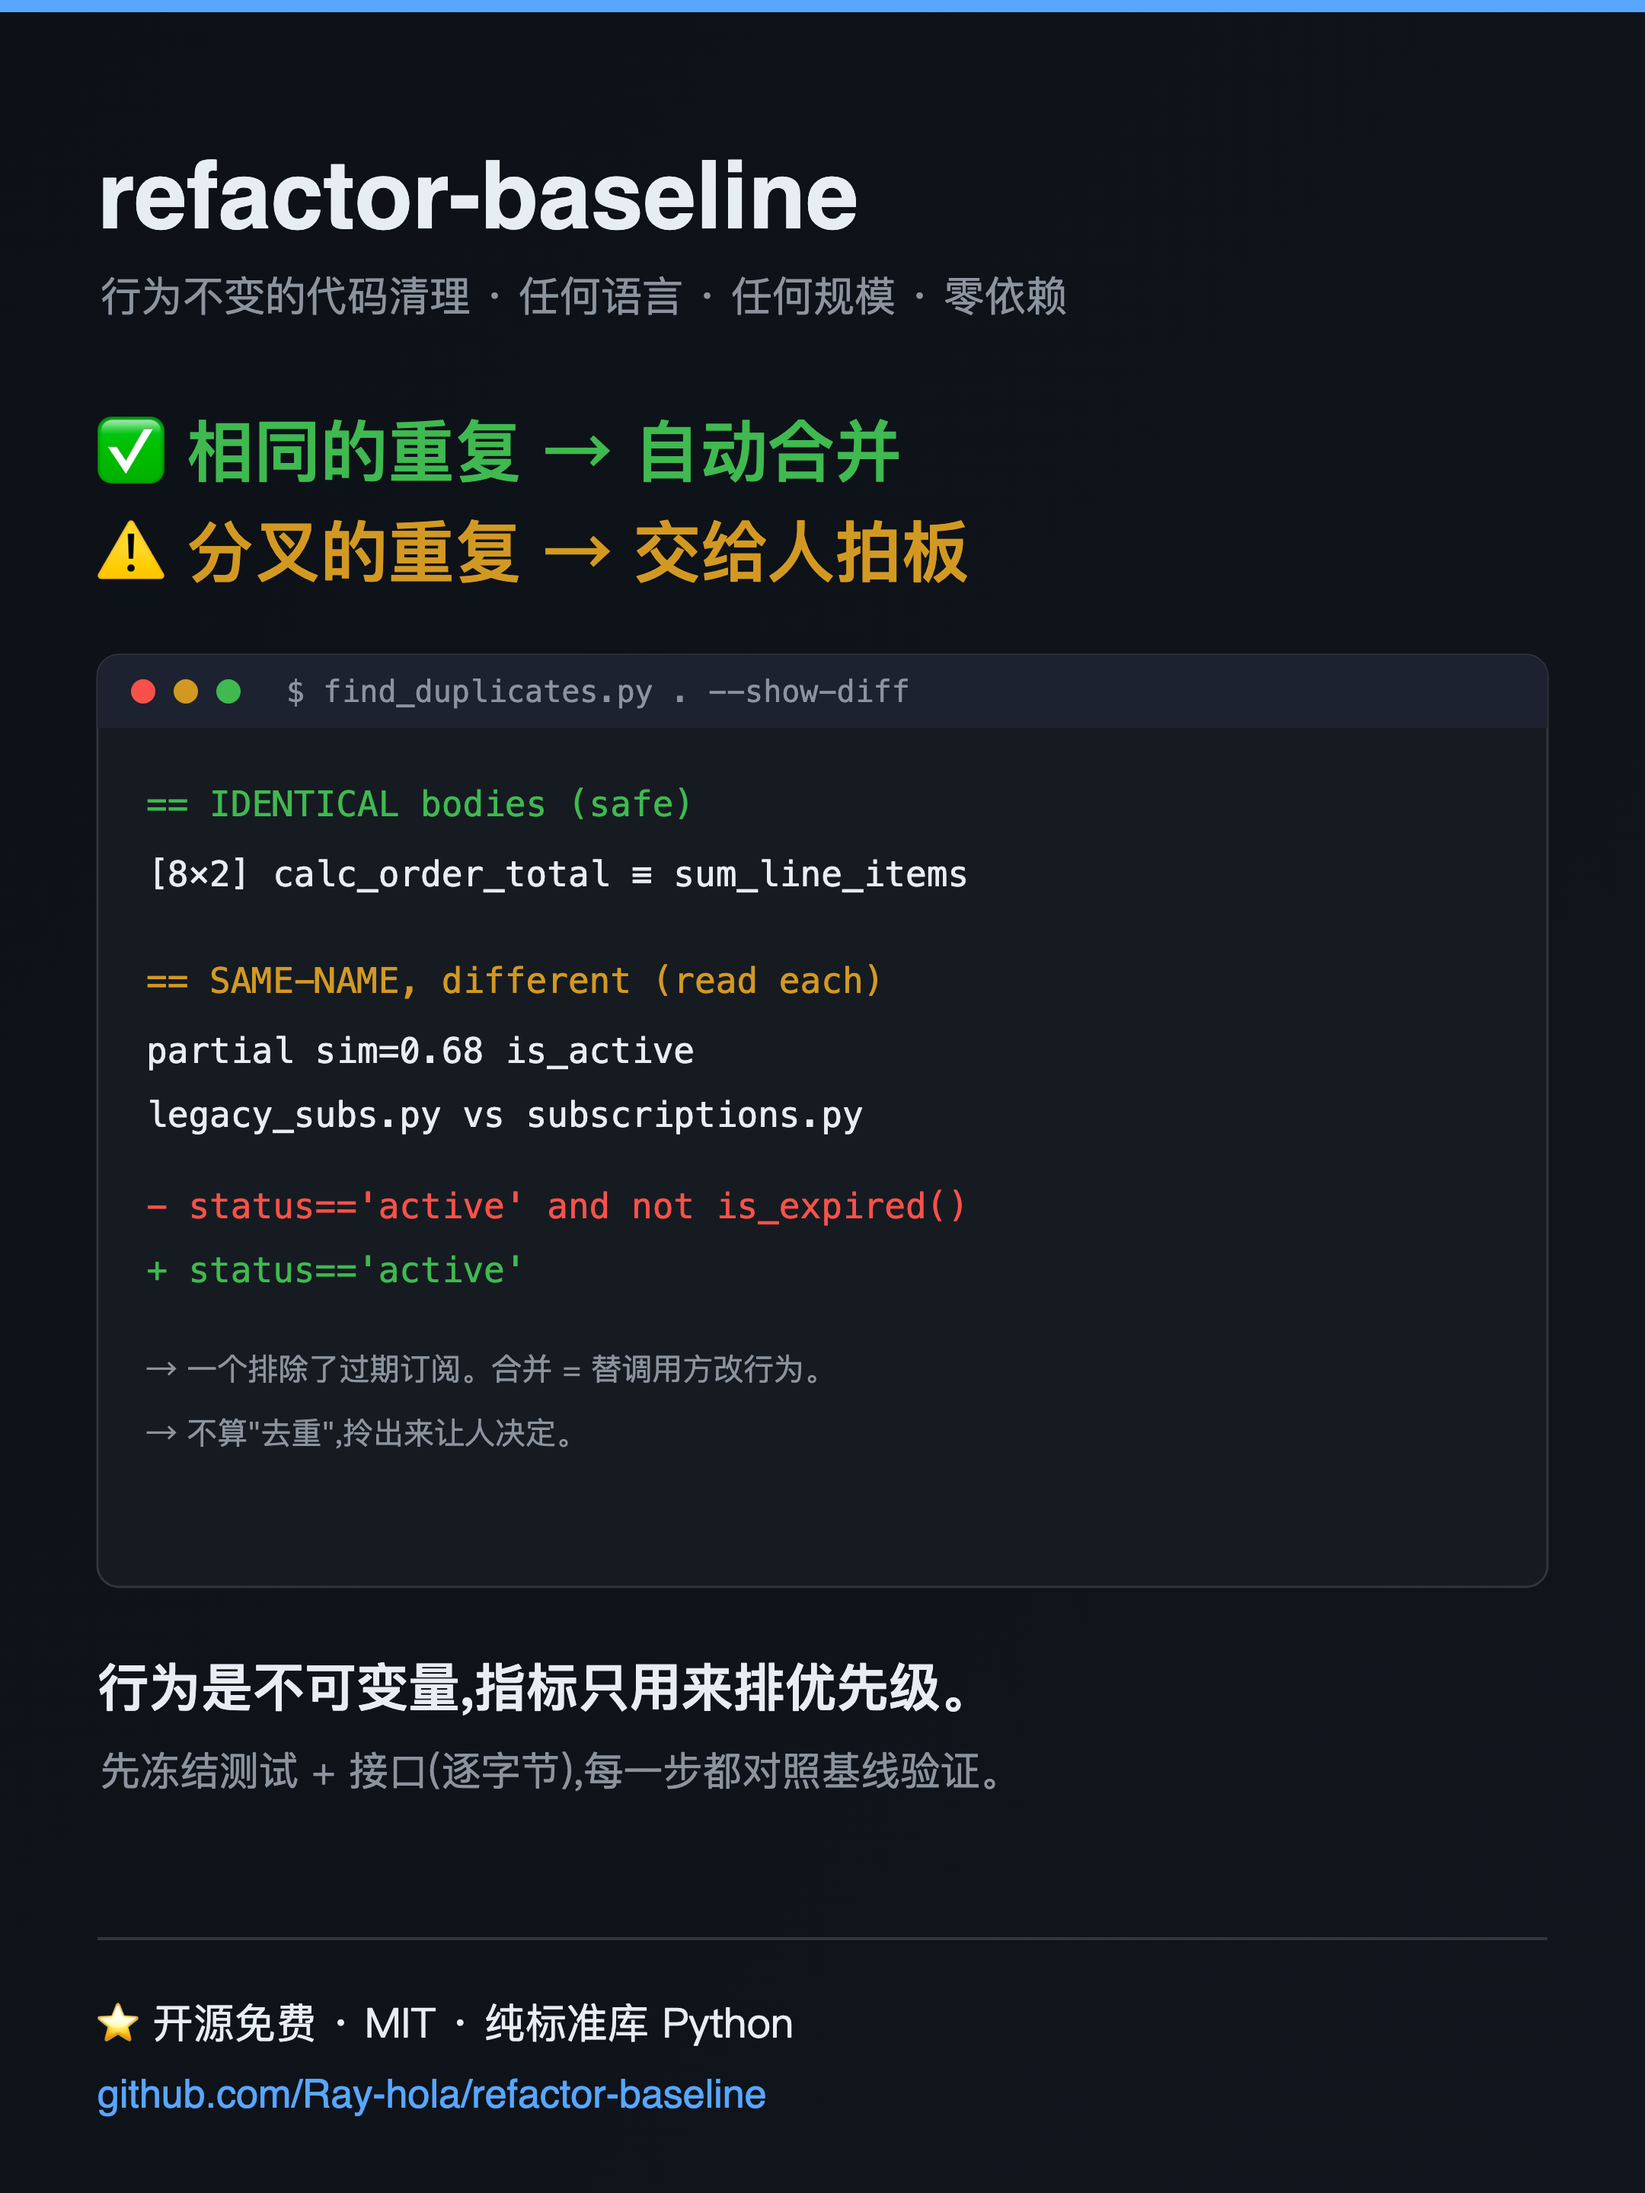
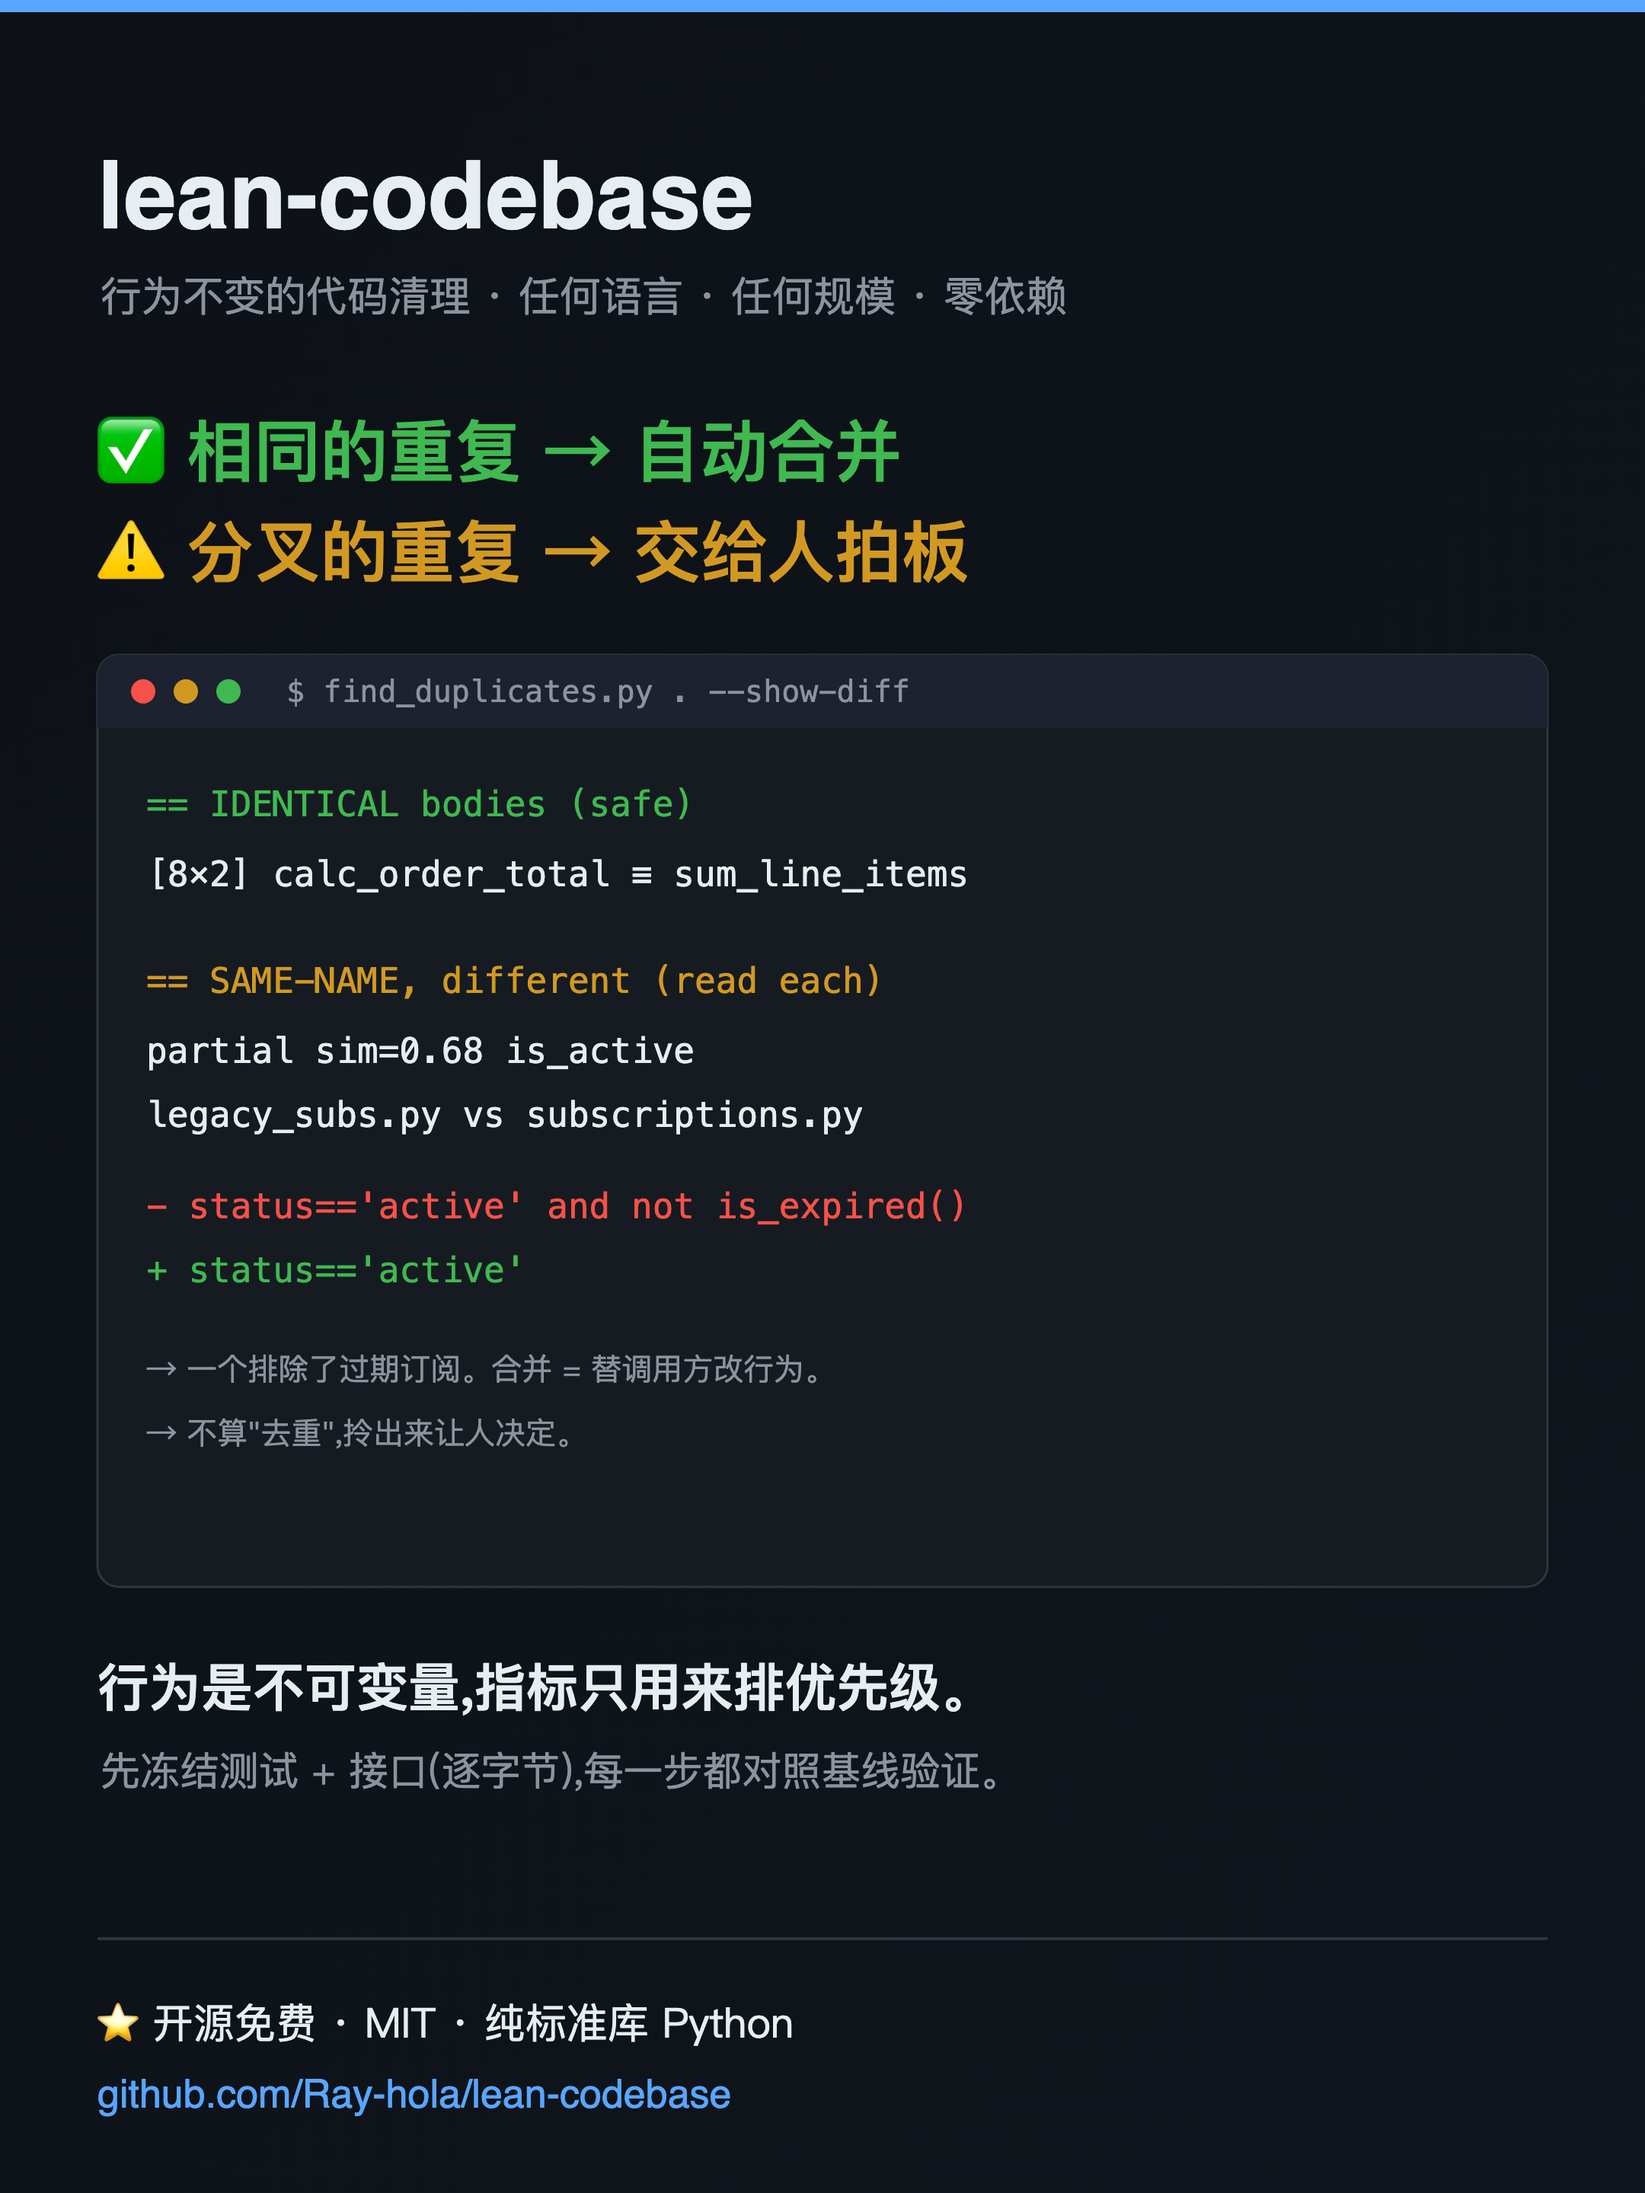
docs: rename project from refactor-baseline to lean-codebase
Lead with the purpose (a leaner codebase) rather than the mechanism.
Update SKILL.md name/title, README, CHANGELOG, CONTRIBUTING, tests and
example docstrings, and the social-card SVG/PNG assets.

The .refactor-baseline/ artifact directory (snapshot.py's default output
dir) keeps its name — it is a functional path, not the brand.

Changed region(s): [[0.062, 0.0625, 0.5273, 0.125], [0.2792, 0.9375, 0.4653, 0.9688]]

diff --git a/tests/test_scripts.py b/tests/test_scripts.py
@@ -1,5 +1,5 @@
 #!/usr/bin/env python3
-"""Tests for the refactor-baseline scripts. Stdlib unittest only, no deps.
+"""Tests for the lean-codebase scripts. Stdlib unittest only, no deps.
 
 Run from the repo root:
 

diff --git a/examples/sample_project/invoices.py b/examples/sample_project/invoices.py
@@ -1,4 +1,4 @@
-"""Invoice totals. Toy code for the refactor-baseline demo — not real software."""
+"""Invoice totals. Toy code for the lean-codebase demo — not real software."""
 
 
 def sum_line_items(lines):

diff --git a/examples/sample_project/orders.py b/examples/sample_project/orders.py
@@ -1,4 +1,4 @@
-"""Order pricing. Toy code for the refactor-baseline demo — not real software."""
+"""Order pricing. Toy code for the lean-codebase demo — not real software."""
 
 
 def calc_order_total(items):

diff --git a/README.md b/README.md
@@ -1,12 +1,12 @@
-# refactor-baseline
+# lean-codebase
 
-[![CI](https://github.com/Ray-hola/refactor-baseline/actions/workflows/ci.yml/badge.svg)](https://github.com/Ray-hola/refactor-baseline/actions/workflows/ci.yml)
+[![CI](https://github.com/Ray-hola/lean-codebase/actions/workflows/ci.yml/badge.svg)](https://github.com/Ray-hola/lean-codebase/actions/workflows/ci.yml)
 [![License: MIT](https://img.shields.io/badge/License-MIT-yellow.svg)](LICENSE)
 [![Python 3.9+](https://img.shields.io/badge/python-3.9%2B-blue.svg)](https://www.python.org/downloads/)
 ![Zero dependencies](https://img.shields.io/badge/dependencies-stdlib%20only-brightgreen.svg)
 
 <p align="center">
-  <img src="assets/lean-codebase.png" alt="refactor-baseline — identical duplicates merge automatically; diverged duplicates go to a human" width="840">
+  <img src="assets/lean-codebase.png" alt="lean-codebase — identical duplicates merge automatically; diverged duplicates go to a human" width="840">
 </p>
 
 An agent skill for **behaviour-preserving codebase cleanup**, for any language and any size. It freezes a baseline first (tests, external interfaces, metrics). It then classifies every finding by whether fixing it preserves behaviour, and makes changes in small steps, each verified against that baseline.
@@ -59,7 +59,7 @@ The scripts use only the Python 3.9+ standard library; there are no dependencies
 Copy or clone the folder into your agent's skills directory:
 
 ```bash
-git clone git@github.com:Ray-hola/refactor-baseline.git ~/.claude/skills/refactor-baseline   # Claude Code
+git clone git@github.com:Ray-hola/lean-codebase.git ~/.claude/skills/lean-codebase   # Claude Code
 # other runtimes: ~/.agents/skills/, ~/.codex/skills/, ~/.cursor/skills/, ...
 ```
 
@@ -92,7 +92,7 @@ From it comes the spine of the method: a frozen baseline, byte-for-byte interfac
 
 The upfront **kickoff contract** (Phase 0.5) — interview the human once to fix the operating rules, then run unattended — adapts the one-question-at-a-time interview pattern from the [grill-me](https://github.com/satya-janghu/agent-skills) skill.
 
-Project home: <https://github.com/Ray-hola/refactor-baseline>
+Project home: <https://github.com/Ray-hola/lean-codebase>
 
 ---
 
@@ -106,7 +106,7 @@ Project home: <https://github.com/Ray-hola/refactor-baseline>
 - `scripts/`：三个只依赖标准库的脚本，分别做度量、重复检测（区分相同与分叉）、接口快照比对。
 - `references/`：常见回归清单、按项目类型列出的应冻结接口、基线文档模板。
 
-安装：把本目录复制到所用 Agent 的 skills 目录，例如 `~/.claude/skills/refactor-baseline`。
+安装：把本目录复制到所用 Agent 的 skills 目录，例如 `~/.claude/skills/lean-codebase`。
 
 ### 重构理念
 
@@ -134,7 +134,7 @@ Project home: <https://github.com/Ray-hola/refactor-baseline>
 
 开工前的**启动契约**（Phase 0.5）——先用"一次一个问题、每题附推荐答案"的方式与人敲定作业规则，之后无人值守地执行——借鉴自 [grill-me](https://github.com/satya-janghu/agent-skills) skill 的访谈模式。
 
-项目主页：<https://github.com/Ray-hola/refactor-baseline>
+项目主页：<https://github.com/Ray-hola/lean-codebase>
 
 ## License
 

diff --git a/CHANGELOG.md b/CHANGELOG.md
@@ -23,6 +23,12 @@ to follow [Semantic Versioning](https://semver.org/spec/v2.0.0.html).
   "Credits & source" section citing the Nous Research article, in English and
   Chinese.
 
+### Changed
+- Renamed the skill and repository from `refactor-baseline` to `lean-codebase`,
+  to lead with the purpose (a leaner codebase) rather than the mechanism. The
+  `.refactor-baseline/` artifact directory (snapshot/metrics output) keeps its
+  name. GitHub redirects the old repository URL to the new one.
+
 ## [0.1.0] - 2026-09-25
 
 ### Added
@@ -36,5 +42,5 @@ to follow [Semantic Versioning](https://semver.org/spec/v2.0.0.html).
 - `scripts/snapshot.py`: byte-for-byte interface snapshots with masking.
 - References: `pitfalls.md`, `project-types.md`, `baseline-template.md`.
 
-[Unreleased]: https://github.com/Ray-hola/refactor-baseline/compare/v0.1.0...HEAD
-[0.1.0]: https://github.com/Ray-hola/refactor-baseline/releases/tag/v0.1.0
+[Unreleased]: https://github.com/Ray-hola/lean-codebase/compare/v0.1.0...HEAD
+[0.1.0]: https://github.com/Ray-hola/lean-codebase/releases/tag/v0.1.0

diff --git a/SKILL.md b/SKILL.md
@@ -1,9 +1,9 @@
 ---
-name: refactor-baseline
+name: lean-codebase
 description: Use when asked to clean up, simplify, deduplicate or refactor a codebase, audit it for duplicated or tangled logic, shrink god files or long functions, or set a baseline before code optimization. Applies to any language and any size, from a single package to a large monorepo.
 ---
 
-# Refactor Baseline
+# Lean Codebase
 
 ## Overview
 

diff --git a/CONTRIBUTING.md b/CONTRIBUTING.md
@@ -1,4 +1,4 @@
-# Contributing to refactor-baseline
+# Contributing to lean-codebase
 
 Thanks for your interest in improving this skill. It stays deliberately small and dependency-free, so a few conventions keep it that way.
 
